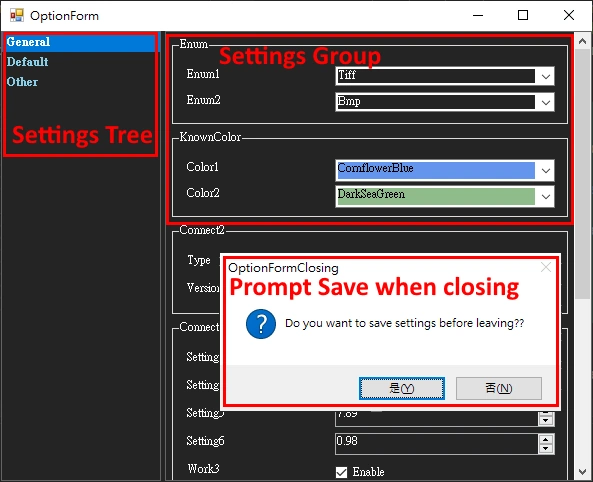
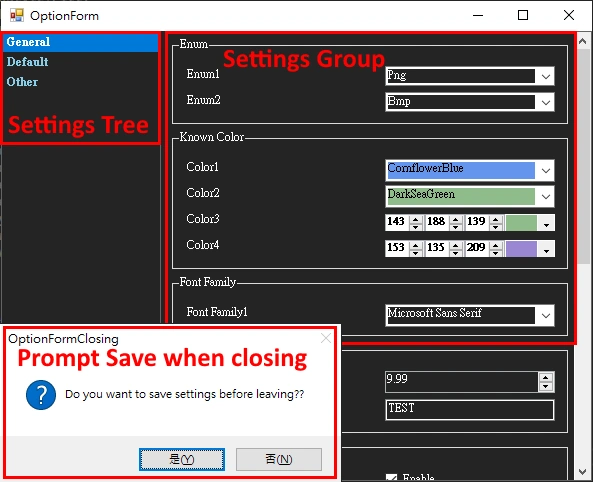
Added Option generic "System.Drawing.Color" type
for Color Selector ComboBox.

diff --git a/OptionTreeView/OptionTreeView.cs b/OptionTreeView/OptionTreeView.cs
@@ -3,6 +3,7 @@ using System.Collections.Generic;
 using System.ComponentModel;
 using System.Configuration;
 using System.Drawing;
+using System.Globalization;
 using System.Text.RegularExpressions;
 using System.Windows.Forms;
 
@@ -16,6 +17,20 @@ namespace OptionTreeView
         int VisibleIndex;
         readonly ToolTip ToolTip1;
         readonly List<Panel> Panels;
+        readonly object[] rgbs = new object[] { //RGB color codes chart
+            "330000", "660000", "990000", "CC0000", "FF0000", "FF3333", "FF6666", "FF9999", "FFCCCC",
+            "331900", "663300", "994C00", "CC6600", "FF8000", "FF9933", "FFB266", "FFCC99", "FFE5CC",
+            "333300", "666600", "999900", "CCCC00", "FFFF00", "FFFF33", "FFFF66", "FFFF99", "FFFFCC",
+            "193300", "336600", "4C9900", "66CC00", "80FF00", "99FF33", "B2FF66", "CCFF99", "E5FFCC",
+            "003300", "006600", "009900", "00CC00", "00FF00", "33FF33", "66FF66", "99FF99", "CCFFCC",
+            "003319", "006633", "00994C", "00CC66", "00FF80", "33FF99", "66FFB2", "99FFCC", "CCFFE5",
+            "003333", "006666", "009999", "00CCCC", "00FFFF", "33FFFF", "66FFFF", "99FFFF", "CCFFFF",
+            "001933", "003366", "004C99", "0066CC", "0080FF", "3399FF", "66B2FF", "99CCFF", "CCE5FF",
+            "000033", "000066", "000099", "0000CC", "0000FF", "3333FF", "6666FF", "9999FF", "CCCCFF",
+            "190033", "330066", "4C0099", "6600CC", "7F00FF", "9933FF", "B266FF", "CC99FF", "E5CCFF",
+            "330033", "660066", "990099", "CC00CC", "FF00FF", "FF33FF", "FF66FF", "FF99FF", "FFCCFF",
+            "330019", "660033", "99004C", "CC0066", "FF007F", "FF3399", "FF66B2", "FF99CC", "FFCCE5",
+            "000000", "202020", "404040", "606060", "808080", "A0A0A0", "C0C0C0", "E0E0E0", "FFFFFF"};
         #endregion
 
         #region Constructors
@@ -88,11 +103,16 @@ namespace OptionTreeView
                     comboBox.DrawItem -= new DrawItemEventHandler(ColorBox_DrawItem);
                     comboBox.DrawItem -= new DrawItemEventHandler(FontBox_DrawItem);
                     comboBox.SelectedIndexChanged -= ColorBox_SelectedIndexChanged;
+                    comboBox.SelectedIndexChanged -= ColorNum_ValueChanged;
                     comboBox.SelectedIndexChanged -= Control_Changed;
                 }
                 else if (ctrl is CheckBox checkBox) checkBox.CheckedChanged -= Control_Changed;
                 else if (ctrl is TextBox textBox) textBox.Leave -= Control_Changed;
-                else if (ctrl is NumericUpDown upDown) upDown.ValueChanged -= Control_Changed;
+                else if (ctrl is NumericUpDown upDown)
+                {
+                    upDown.ValueChanged -= Control_Changed;
+                    upDown.ValueChanged -= ColorNum_ValueChanged;
+                }
 
                 ctrl.Dispose();
                 return true;
@@ -110,7 +130,9 @@ namespace OptionTreeView
 
             Rectangle rect = e.Bounds; //Rectangle of item
             string itemName = comboBox.Items[e.Index].ToString(); //Get item color name
-            Color itemColor = Color.FromName(itemName); //Get instance color from item name
+            bool isARGB = uint.TryParse(itemName, NumberStyles.HexNumber, null, out uint argb);
+            if (argb < 0xFF000000) argb += 0xFF000000;
+            Color itemColor = isARGB ? Color.FromArgb((int)argb) : Color.FromName(itemName); //Get instance color from item name
 
             using (Graphics g = e.Graphics)
             using (Brush brush = new SolidBrush(itemColor)) //Get instance brush with Solid style to draw background
@@ -167,6 +189,32 @@ namespace OptionTreeView
             else if (control is TextBox textBox) newVal = textBox.Text;
 
             if (option.Name.Length > 0 && newVal != null) UpdateSettings(option.Name, newVal);
+        }
+
+        private void ColorNum_ValueChanged(object sender, EventArgs e)
+        {
+            Control control = sender as Control;
+            bool isComboBox = control is ComboBox;
+            var ColorR = control.Parent.Controls.Find("ColorR", false)[0] as NumericUpDown;
+            var ColorG = control.Parent.Controls.Find("ColorG", false)[0] as NumericUpDown;
+            var ColorB = control.Parent.Controls.Find("ColorB", false)[0] as NumericUpDown;
+            var ColorBox = control.Parent.Controls.Find("ColorBox", false)[0] as ComboBox;
+
+            if (isComboBox)
+            {
+                uint argb = uint.Parse(ColorBox.SelectedItem.ToString(), NumberStyles.HexNumber);
+                if (argb < 0xFF000000) argb += 0xFF000000;
+
+                Color color = Color.FromArgb((int)argb);
+                ColorR.Value = color.R;
+                ColorG.Value = color.G;
+                ColorB.Value = color.B;
+            }
+            ColorBox.BackColor = Color.FromArgb((int)ColorR.Value, (int)ColorG.Value, (int)ColorB.Value);
+            if (!isComboBox) ColorBox.Text = ColorBox.BackColor.ToArgb().ToString("X");
+
+            var option = ((object Value, string TreeName, string GroupName, string Name, string Description, uint Seq))control.Parent.Tag;
+            if (option.Name.Length > 0) UpdateSettings(option.Name, ColorBox.BackColor);
         }
         #endregion
 
@@ -481,6 +529,7 @@ namespace OptionTreeView
             TableLayoutPanel TablePanelTop = null;
             TableLayoutPanel TablePanelSub = null;
             GroupBox groupBox = null;
+            Font numFont = new Font(Font.FontFamily, 8, FontStyle.Bold);
             (object Value, string TreeName, string GroupName, string Name, string Description, uint Seq) tmpOption = (null, null, null, null, null, 0);
             foreach ((object Value, string TreeName, string GroupName, string Name, string Description, uint Seq) option in TreeGroupOptions)
             {
@@ -583,6 +632,57 @@ namespace OptionTreeView
                     }
                     ((ComboBox)control).SelectedItem = enumVal;
                     ((ComboBox)control).SelectedIndexChanged += Control_Changed;
+                }
+                else if (option.Value is Color color)
+                {
+                    var numR = new NumericUpDown() { Increment = 5, Maximum = 255, Minimum = 0, Value = color.R };
+                    var numG = new NumericUpDown() { Increment = 5, Maximum = 255, Minimum = 0, Value = color.G };
+                    var numB = new NumericUpDown() { Increment = 5, Maximum = 255, Minimum = 0, Value = color.B };
+                    numR.ValueChanged += ColorNum_ValueChanged;
+                    numG.ValueChanged += ColorNum_ValueChanged;
+                    numB.ValueChanged += ColorNum_ValueChanged;
+                    numR.Name = "ColorR";
+                    numG.Name = "ColorG";
+                    numB.Name = "ColorB";
+                    numR.Dock = DockStyle.Fill;
+                    numG.Dock = DockStyle.Fill;
+                    numB.Dock = DockStyle.Fill;
+                    numR.Margin = new Padding(0, 3, 0, 0);
+                    numG.Margin = new Padding(0, 3, 0, 0);
+                    numB.Margin = new Padding(0, 3, 0, 0);
+                    numR.Font = numFont;
+                    numG.Font = numFont;
+                    numB.Font = numFont;
+                    ComboBox colorBox = new ComboBox { FormattingEnabled = true };
+                    colorBox.DrawMode = DrawMode.OwnerDrawFixed;
+                    colorBox.DrawItem += new DrawItemEventHandler(ColorBox_DrawItem);
+                    colorBox.SelectedIndexChanged += ColorNum_ValueChanged;
+                    colorBox.FlatStyle = FlatStyle.Popup;
+                    colorBox.Items.AddRange(rgbs);
+                    colorBox.Name = "ColorBox";
+                    colorBox.Dock = DockStyle.Fill;
+                    colorBox.Margin = new Padding(0, 3, 0, 0);
+                    if (color != default) colorBox.BackColor = color;
+
+                    var TablePanelControl = new TableLayoutPanel();
+                    TablePanelControl.Size = new Size(100, colorBox.Height);
+                    TablePanelControl.SuspendLayout();
+                    TablePanelControl.ColumnCount = 4;
+                    TablePanelControl.ColumnStyles.Add(new ColumnStyle(SizeType.Absolute, 40F));
+                    TablePanelControl.ColumnStyles.Add(new ColumnStyle(SizeType.Absolute, 40F));
+                    TablePanelControl.ColumnStyles.Add(new ColumnStyle(SizeType.Absolute, 40F));
+                    TablePanelControl.ColumnStyles.Add(new ColumnStyle(SizeType.Percent, 100F));
+                    TablePanelControl.Tag = option;
+                    TablePanelControl.Controls.Add(numR);
+                    TablePanelControl.Controls.Add(numG);
+                    TablePanelControl.Controls.Add(numB);
+                    TablePanelControl.Controls.Add(colorBox);
+
+                    TablePanelControl.ResumeLayout(false);
+                    TablePanelControl.PerformLayout();
+
+                    control = TablePanelControl;
+
                 }
                 else if (option.Value is FontFamily fontFamily)
                 {
@@ -687,6 +787,7 @@ namespace OptionTreeView
                     Type innerType = !optionInstanceType.IsGenericType ? optionInstanceType : optionInstanceType.GetGenericArguments()[0];
                     object newValue;
                     if (innerType.Name == "FontFamily") newValue = new FontFamily(newVal.ToString());
+                    else if (innerType.Name == "Color") newValue = (Color)newVal;
                     else
                     {
                         TypeConverter innerTypeConverter = TypeDescriptor.GetConverter(innerType);

diff --git a/OptionTreeViewTestApp/Properties/Settings.Designer.cs b/OptionTreeViewTestApp/Properties/Settings.Designer.cs
@@ -61,7 +61,7 @@ namespace OptionTreeViewTestApp.Properties {
         
         [global::System.Configuration.UserScopedSettingAttribute()]
         [global::System.Diagnostics.DebuggerNonUserCodeAttribute()]
-        [global::System.Configuration.DefaultSettingValueAttribute("CornflowerBlue|1_General|2_KnownColor|This is Color1")]
+        [global::System.Configuration.DefaultSettingValueAttribute("CornflowerBlue|1_General|2_KnownColor|This is KnownColor1")]
         public global::OptionTreeView.Option<System.Drawing.KnownColor> Color1 {
             get {
                 return ((global::OptionTreeView.Option<System.Drawing.KnownColor>)(this["Color1"]));
@@ -73,13 +73,37 @@ namespace OptionTreeViewTestApp.Properties {
         
         [global::System.Configuration.UserScopedSettingAttribute()]
         [global::System.Diagnostics.DebuggerNonUserCodeAttribute()]
-        [global::System.Configuration.DefaultSettingValueAttribute("DarkSeaGreen|1_General|2_KnownColor|This is Color2")]
+        [global::System.Configuration.DefaultSettingValueAttribute("DarkSeaGreen|1_General|2_KnownColor|This is KnownColor2")]
         public global::OptionTreeView.Option<System.Drawing.KnownColor> Color2 {
             get {
                 return ((global::OptionTreeView.Option<System.Drawing.KnownColor>)(this["Color2"]));
             }
             set {
                 this["Color2"] = value;
+            }
+        }
+        
+        [global::System.Configuration.UserScopedSettingAttribute()]
+        [global::System.Diagnostics.DebuggerNonUserCodeAttribute()]
+        [global::System.Configuration.DefaultSettingValueAttribute("DarkSeaGreen|1_General|2_KnownColor|This is Color1")]
+        public global::OptionTreeView.Option<System.Drawing.Color> Color3 {
+            get {
+                return ((global::OptionTreeView.Option<System.Drawing.Color>)(this["Color3"]));
+            }
+            set {
+                this["Color3"] = value;
+            }
+        }
+        
+        [global::System.Configuration.UserScopedSettingAttribute()]
+        [global::System.Diagnostics.DebuggerNonUserCodeAttribute()]
+        [global::System.Configuration.DefaultSettingValueAttribute("99B4D1|1_General|2_KnownColor|This is Color2")]
+        public global::OptionTreeView.Option<System.Drawing.Color> Color4 {
+            get {
+                return ((global::OptionTreeView.Option<System.Drawing.Color>)(this["Color4"]));
+            }
+            set {
+                this["Color4"] = value;
             }
         }
         

diff --git a/OptionTreeView/Option.cs b/OptionTreeView/Option.cs
@@ -2,6 +2,7 @@
 using System.ComponentModel;
 using System.Configuration;
 using System.Drawing;
+using System.Globalization;
 using System.Text.RegularExpressions;
 
 namespace OptionTreeView
@@ -91,9 +92,12 @@ namespace OptionTreeView
 
             object obj, minObj = null, maxObj = null;
             if (InnerType.Name == "FontFamily")
+                obj = Regex.Match(parts[0], @"\[FontFamily: *Name=([^]]+)\]") is Match m1 && m1.Success ? new FontFamily(m1.Groups[1].Value) : new FontFamily(parts[0]);
+            else if (InnerType.Name == "Color")
             {
-                if (Regex.Match(parts[0], @"\[FontFamily: *Name=([^]]+)\]") is Match m1 && m1.Success) obj = new FontFamily(m1.Groups[1].Value);
-                else obj = new FontFamily(parts[0]);
+                bool isARGB = uint.TryParse(parts[0], NumberStyles.HexNumber, null, out uint argb);
+                if (argb < 0xFF000000) argb += 0xFF000000;
+                obj = isARGB ? Color.FromArgb((int)argb) : Color.FromName(parts[0]);
             }
             else
             {
@@ -117,8 +121,11 @@ namespace OptionTreeView
             if (destinationType != typeof(string) || !GenericInstanceType.IsGenericType || GenericInstanceType.GetGenericTypeDefinition() != typeof(Option<>))
                 return base.ConvertTo(context, culture, value, destinationType);
 
+            var newVal = GenericInstanceType.GetProperty("Value").GetValue(value, null);
+            if (InnerType.Name == "Color") newVal = ((Color)newVal).ToArgb().ToString("X");
+
             return string.Format("{0}" + Separator + "{1}" + Separator + "{2}" + Separator + "{3}" + Separator + "{4}" + Separator + "{5}",
-                GenericInstanceType.GetProperty("Value").GetValue(value, null),
+                newVal,
                 GenericInstanceType.GetProperty("TreeName").GetValue(value, null),
                 GenericInstanceType.GetProperty("GroupName").GetValue(value, null),
                 GenericInstanceType.GetProperty("Description").GetValue(value, null),

diff --git a/OptionTreeView/Properties/AssemblyInfo.cs b/OptionTreeView/Properties/AssemblyInfo.cs
@@ -32,5 +32,5 @@ using System.Runtime.InteropServices;
 // You can specify all the values or you can default the Build and Revision Numbers
 // by using the '*' as shown below:
 // [assembly: AssemblyVersion("1.0.*")]
-[assembly: AssemblyVersion("0.9.7.0")]
-[assembly: AssemblyFileVersion("0.9.7.0")]
+[assembly: AssemblyVersion("0.9.8.0")]
+[assembly: AssemblyFileVersion("0.9.8.0")]

diff --git a/README.md b/README.md
@@ -56,6 +56,7 @@ that automatically generates options windows view. (using Settings.settings)
 
 - To make the settings have tree and group classification, the type must be changed to `OptionTreeView.Option` generic class.
 - Generic supported types are `sbyte, short, int, long, byte, ushort, uint, ulong, decimal, float, double, Enum, bool, string` and
+- `System.Drawing.Color` for Color Selector ComboBox.
 - `System.Drawing.KnownColor` for Color Picker ComboBox.
 - `System.Drawing.FontFamily` for Font Selector ComboBox.
 - The Settings in the GUI Designer interface cannot set the type to a generic class, but...
@@ -82,10 +83,16 @@ that automatically generates options windows view. (using Settings.settings)
       <Value Profile="(Default)">Bmp|1_General|1_Enum|This is Enum2</Value>
     </Setting>
     <Setting Name="Color1" Type="OptionTreeView.Option&lt;System.Drawing.KnownColor&gt;" Scope="User">
-      <Value Profile="(Default)">CornflowerBlue|1_General|2_KnownColor|This is Color1</Value>
+      <Value Profile="(Default)">CornflowerBlue|1_General|2_KnownColor|This is KnownColor1</Value>
     </Setting>
     <Setting Name="Color2" Type="OptionTreeView.Option&lt;System.Drawing.KnownColor&gt;" Scope="User">
-      <Value Profile="(Default)">DarkSeaGreen|1_General|2_KnownColor|This is Color2</Value>
+      <Value Profile="(Default)">DarkSeaGreen|1_General|2_KnownColor|This is KnownColor2</Value>
+    </Setting>
+    <Setting Name="Color3" Type="OptionTreeView.Option&lt;System.Drawing.Color&gt;" Scope="User">
+      <Value Profile="(Default)">DarkSeaGreen|1_General|2_KnownColor|This is Color1</Value>
+    </Setting>
+    <Setting Name="Color4" Type="OptionTreeView.Option&lt;System.Drawing.Color&gt;" Scope="User">
+      <Value Profile="(Default)">99B4D1|1_General|2_KnownColor|This is Color2</Value>
     </Setting>
     <Setting Name="FontFamily1" Type="OptionTreeView.Option&lt;System.Drawing.FontFamily&gt;" Scope="User">
       <Value Profile="(Default)">[FontFamily: Name=Microsoft Sans Serif]|1_General|3_FontFamily|This is FontFamily1</Value>
